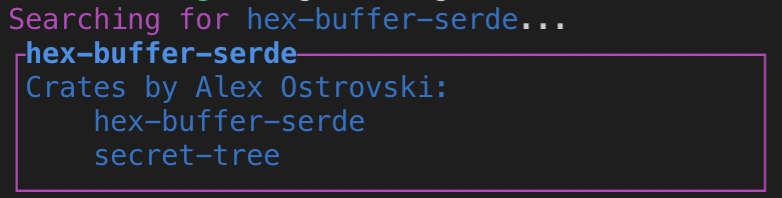
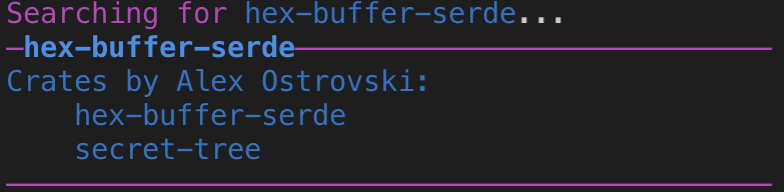
docs(README.md): Update images to show license
* chit normal
* owners
* versions

Changed region(s): [[0.0, 0.0, 0.9821, 1.0], [0.0921, 0.7188, 0.3683, 0.8438]]

diff --git a/README.md b/README.md
@@ -13,7 +13,7 @@ If not... [find out how!](https://doc.rust-lang.org/cargo/getting-started/instal
 
 `chit hex-buffer-serde` OR `chit --crate=hex-buffer-serde`
 
-<img src="https://github.com/peterheesterman/chit/blob/master/readme-images/chit.png?raw=true" width="461"  height="203"/>
+<img src="https://github.com/peterheesterman/chit/blob/master/readme-images/chit.png?raw=true" width="461"  height="221"/>
 
 `chit versions --crate=hex-buffer-serde`
 
